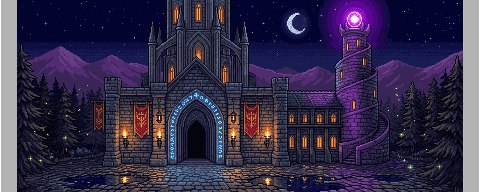
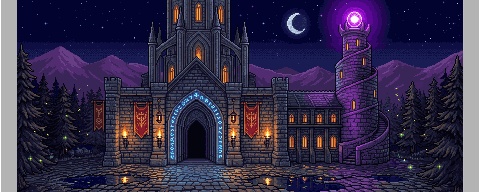
fix: Restore sky canvas + particles, single guild hall image (night-v2)
- Sky gradient, stars, moon, fog, seasonal particles all restored
- Removed broken mountain + day/night guild hall layers
- Single guild hall image (night-v2) anchored at bottom
- Added image copying to deploy.sh (backgrounds + icons)

diff --git a/components/GuildHallBackground.tsx b/components/GuildHallBackground.tsx
@@ -1,36 +1,318 @@
 "use client";
 
+import { useEffect, useRef } from "react";
+
+type TOD = "dawn" | "day" | "sunset" | "night";
+type Season = "spring" | "summer" | "autumn" | "winter";
+
+function getTOD(): TOD {
+  const h = new Date().getHours();
+  if (h >= 6 && h < 9)  return "dawn";
+  if (h >= 9 && h < 17) return "day";
+  if (h >= 17 && h < 20) return "sunset";
+  return "night";
+}
+
+function getSeason(): Season {
+  const m = new Date().getMonth();
+  if (m >= 2 && m <= 4) return "spring";
+  if (m >= 5 && m <= 7) return "summer";
+  if (m >= 8 && m <= 10) return "autumn";
+  return "winter";
+}
+
+// Sky gradient [top, upper-mid, lower-mid, horizon] — warm fantasy tones
+const SKY: Record<TOD, [string, string, string, string]> = {
+  dawn:   ["#07040e", "#2a0e28", "#6e2b18", "#d4582a"],
+  day:    ["#0a0810", "#18102a", "#2a1a45", "#3d2860"],   // deep purple-indigo, no blue
+  sunset: ["#07040e", "#1e0820", "#5c180a", "#c2400a"],
+  night:  ["#02010a", "#0d0b1a", "#120d22", "#1c1438"],   // dark purple-black
+};
+
+// ─── Particles ────────────────────────────────────────────────────────────────
+interface Particle {
+  x: number; y: number;
+  vx: number; vy: number;
+  size: number; opacity: number; maxOpacity: number;
+  rotation: number; rotSpeed: number;
+  swayAmp: number; swayFreq: number; swayPhase: number;
+  colorBase: string;
+  pulsePhase: number;
+}
+
+const SEASON_COLORS: Record<Season, string[]> = {
+  spring: ["rgba(255,185,205,", "rgba(255,210,225,", "rgba(245,155,185,"],
+  summer: ["rgba(255,255,100,", "rgba(200,255,110,", "rgba(150,240,70,"],
+  autumn: ["rgba(215,95,25,",   "rgba(185,60,15,",   "rgba(245,145,20,", "rgba(165,50,8,"],
+  winter: ["rgba(225,240,255,", "rgba(205,225,255,", "rgba(245,250,255,"],
+};
+
+function mkParticle(w: number, h: number, season: Season, scatter = false): Particle {
+  const colors = SEASON_COLORS[season];
+  const colorBase = colors[Math.floor(Math.random() * colors.length)];
+  const isSummer = season === "summer";
+  return {
+    x: Math.random() * w,
+    y: scatter ? Math.random() * h : -10 - Math.random() * 80,
+    vx: (Math.random() - 0.5) * (isSummer ? 0.25 : 0.65),
+    vy: isSummer ? Math.random() * 0.35 + 0.1 : Math.random() * 0.75 + 0.22,
+    size: isSummer ? Math.random() * 2 + 1.5 : Math.random() * 4 + 1.8,
+    opacity: scatter ? Math.random() * 0.3 : 0,
+    maxOpacity: Math.random() * 0.42 + 0.22,
+    rotation: Math.random() * Math.PI * 2,
+    rotSpeed: (Math.random() - 0.5) * 0.04,
+    swayAmp: Math.random() * 1.4 + 0.4,
+    swayFreq: Math.random() * 0.014 + 0.004,
+    swayPhase: Math.random() * Math.PI * 2,
+    pulsePhase: Math.random() * Math.PI * 2,
+    colorBase,
+  };
+}
+
+function drawParticle(ctx: CanvasRenderingContext2D, p: Particle, season: Season, t: number) {
+  if (p.opacity <= 0.01) return;
+  ctx.save();
+  ctx.translate(p.x, p.y);
+  ctx.rotate(p.rotation);
+  ctx.globalAlpha = p.opacity;
+
+  if (season === "spring") {
+    ctx.fillStyle = p.colorBase + "1)";
+    ctx.beginPath();
+    ctx.ellipse(0, 0, p.size * 0.75, p.size * 1.4, 0, 0, Math.PI * 2);
+    ctx.fill();
+    ctx.fillStyle = p.colorBase + "0.55)";
+    ctx.beginPath();
+    ctx.ellipse(0, p.size * 0.85, p.size * 0.28, p.size * 0.32, 0, 0, Math.PI * 2);
+    ctx.fill();
+  } else if (season === "summer") {
+    const pulse = Math.sin(t * 0.003 + p.pulsePhase) * 0.45 + 0.55;
+    ctx.globalAlpha = p.opacity * pulse;
+    const glow = ctx.createRadialGradient(0, 0, 0, 0, 0, p.size * 3.5);
+    glow.addColorStop(0,   p.colorBase + "0.85)");
+    glow.addColorStop(0.3, p.colorBase + "0.35)");
+    glow.addColorStop(1,   "rgba(0,0,0,0)");
+    ctx.fillStyle = glow;
+    ctx.beginPath();
+    ctx.arc(0, 0, p.size * 3.5, 0, Math.PI * 2);
+    ctx.fill();
+    ctx.fillStyle = p.colorBase + "1)";
+    ctx.beginPath();
+    ctx.arc(0, 0, p.size * 0.45, 0, Math.PI * 2);
+    ctx.fill();
+  } else if (season === "autumn") {
+    ctx.fillStyle = p.colorBase + "1)";
+    ctx.beginPath();
+    ctx.ellipse(0, 0, p.size * 0.65, p.size * 1.55, 0, 0, Math.PI * 2);
+    ctx.fill();
+    ctx.strokeStyle = p.colorBase + "0.45)";
+    ctx.lineWidth = 0.55;
+    ctx.beginPath();
+    ctx.moveTo(0, -p.size * 1.55);
+    ctx.lineTo(0, p.size * 1.55);
+    ctx.stroke();
+  } else {
+    // Snowflake
+    ctx.strokeStyle = p.colorBase + "0.82)";
+    ctx.lineWidth = 0.65;
+    for (let i = 0; i < 6; i++) {
+      const a = (i / 6) * Math.PI * 2;
+      const ex = Math.cos(a) * p.size * 1.5;
+      const ey = Math.sin(a) * p.size * 1.5;
+      ctx.beginPath(); ctx.moveTo(0, 0); ctx.lineTo(ex, ey); ctx.stroke();
+      const mx = ex * 0.5, my = ey * 0.5;
+      const px = Math.cos(a + Math.PI / 2) * p.size * 0.4;
+      const py = Math.sin(a + Math.PI / 2) * p.size * 0.4;
+      ctx.beginPath(); ctx.moveTo(mx - px, my - py); ctx.lineTo(mx + px, my + py); ctx.stroke();
+    }
+    ctx.fillStyle = p.colorBase + "0.9)";
+    ctx.beginPath(); ctx.arc(0, 0, p.size * 0.28, 0, Math.PI * 2); ctx.fill();
+  }
+  ctx.restore();
+}
+
+// ─── Main Component ───────────────────────────────────────────────────────────
 export default function GuildHallBackground() {
+  const canvasRef  = useRef<HTMLCanvasElement>(null);
+
+  // Canvas: sky gradient + stars + moon/sun + fog + seasonal particles
+  useEffect(() => {
+    const canvas = canvasRef.current;
+    if (!canvas) return;
+    const ctx = canvas.getContext("2d");
+    if (!ctx) return;
+
+    const tod    = getTOD();
+    const season = getSeason();
+    const mobile = () => canvas.width < 768;
+
+    const resize = () => {
+      canvas.width  = window.innerWidth;
+      canvas.height = window.innerHeight;
+    };
+    resize();
+    window.addEventListener("resize", resize);
+
+    // Deterministic stars seeded by index
+    const STAR_COUNT = 115;
+    const stars = Array.from({ length: STAR_COUNT }, (_, i) => ({
+      x:  ((i * 7919 + 1234) % 9973) / 9973,
+      y:  ((i * 6271 + 4321) % 8191) / 8191 * 0.64,
+      s:  ((i * 3571) % 100) / 100 * 1.15 + 0.22,
+      to: ((i * 2341) % 628) / 100,
+      ts: 0.0006 + ((i * 1231) % 100) / 100 * 0.0012,
+    }));
+
+    // Seasonal particles
+    const showParticles = season !== "summer" || tod === "night" || tod === "dawn" || tod === "sunset";
+    const maxP = mobile() ? 12 : 26;
+    const particles: Particle[] = showParticles
+      ? Array.from({ length: maxP }, (_, i) => mkParticle(canvas.width, canvas.height, season, i < maxP * 0.6))
+      : [];
+
+    let animId: number;
+    let t = 0;
+
+    const frame = () => {
+      t++;
+      const w = canvas.width;
+      const h = canvas.height;
+
+      // ── Sky gradient ─────────────────────────────────────────────────────
+      const [c0, c1, c2, c3] = SKY[tod];
+      const skyGrad = ctx.createLinearGradient(0, 0, 0, h);
+      skyGrad.addColorStop(0,    c0);
+      skyGrad.addColorStop(0.33, c1);
+      skyGrad.addColorStop(0.70, c2);
+      skyGrad.addColorStop(1,    c3);
+      ctx.fillStyle = skyGrad;
+      ctx.fillRect(0, 0, w, h);
+
+      // ── Stars ────────────────────────────────────────────────────────────
+      if (tod !== "day") {
+        const sa = tod === "night" ? 0.62 : tod === "dawn" ? 0.32 : 0.14;
+        const starLimit = mobile() ? 55 : STAR_COUNT;
+        ctx.fillStyle = "#d6c8ff";
+        for (let i = 0; i < starLimit; i++) {
+          const s = stars[i];
+          const tw = Math.sin(t * s.ts + s.to) * 0.26 + 0.74;
+          ctx.globalAlpha = sa * tw;
+          ctx.beginPath();
+          ctx.arc(s.x * w, s.y * h, s.s, 0, Math.PI * 2);
+          ctx.fill();
+        }
+        ctx.globalAlpha = 1;
+      }
+
+      // ── Moon / sun ───────────────────────────────────────────────────────
+      if (tod === "night" || tod === "dawn") {
+        const mx = w * 0.74, my = h * 0.17, mr = mobile() ? 19 : 29;
+        const ma = tod === "night" ? 0.86 : 0.40;
+        const mg = ctx.createRadialGradient(mx, my, mr * 0.4, mx, my, mr * 3.8);
+        mg.addColorStop(0, `rgba(215,200,255,${(ma * 0.12).toFixed(3)})`);
+        mg.addColorStop(1, "rgba(0,0,0,0)");
+        ctx.fillStyle = mg; ctx.beginPath(); ctx.arc(mx, my, mr * 3.8, 0, Math.PI * 2); ctx.fill();
+        ctx.fillStyle = `rgba(230,225,255,${ma})`;
+        ctx.beginPath(); ctx.arc(mx, my, mr, 0, Math.PI * 2); ctx.fill();
+        ctx.fillStyle = tod === "night" ? "rgba(8,4,18,0.92)" : "rgba(20,10,35,0.52)";
+        ctx.beginPath(); ctx.arc(mx + mr * 0.27, my - mr * 0.07, mr * 0.82, 0, Math.PI * 2); ctx.fill();
+      } else if (tod === "day") {
+        const sg = ctx.createRadialGradient(w * 0.62, h * 0.17, 0, w * 0.62, h * 0.17, h * 0.5);
+        sg.addColorStop(0, "rgba(255,190,80,0.10)"); sg.addColorStop(1, "rgba(0,0,0,0)");
+        ctx.fillStyle = sg; ctx.fillRect(0, 0, w, h);
+      } else {
+        const sg = ctx.createRadialGradient(w * 0.28, h * 0.82, 0, w * 0.28, h * 0.82, h * 0.55);
+        sg.addColorStop(0, "rgba(255,88,18,0.30)"); sg.addColorStop(1, "rgba(0,0,0,0)");
+        ctx.fillStyle = sg; ctx.fillRect(0, 0, w, h);
+      }
+
+      if (tod === "dawn") {
+        const dg = ctx.createRadialGradient(w * 0.3, h * 0.85, 0, w * 0.3, h * 0.85, h * 0.52);
+        dg.addColorStop(0, "rgba(255,130,42,0.26)"); dg.addColorStop(1, "rgba(0,0,0,0)");
+        ctx.fillStyle = dg; ctx.fillRect(0, 0, w, h);
+      }
+
+      // ── Fog layer ────────────────────────────────────────────────────────
+      if (tod !== "day") {
+        const fy = h * 0.63 + Math.sin(t * 0.00038) * 7;
+        const fc: Record<TOD, string> = {
+          dawn:   "rgba(255,136,62,0.055)",
+          day:    "rgba(0,0,0,0)",
+          sunset: "rgba(195,65,20,0.055)",
+          night:  "rgba(38,22,72,0.065)",
+        };
+        const fg = ctx.createLinearGradient(0, fy, 0, fy + h * 0.20);
+        fg.addColorStop(0, "rgba(0,0,0,0)");
+        fg.addColorStop(0.5, fc[tod]);
+        fg.addColorStop(1, "rgba(0,0,0,0)");
+        ctx.fillStyle = fg; ctx.fillRect(0, fy, w, h * 0.20);
+      }
+
+      // ── Seasonal particles ───────────────────────────────────────────────
+      for (let i = 0; i < particles.length; i++) {
+        const p = particles[i];
+        p.x += p.vx + Math.sin(t * p.swayFreq + p.swayPhase) * p.swayAmp * 0.055;
+        p.y += p.vy;
+        p.rotation += p.rotSpeed;
+        if (p.y < 50) p.opacity = Math.min(p.maxOpacity, p.opacity + 0.012);
+        else if (p.y > h - 70) p.opacity = Math.max(0, p.opacity - 0.018);
+        else p.opacity = Math.min(p.maxOpacity, p.opacity + 0.008);
+        if (p.y > h + 15) particles[i] = mkParticle(w, h, season);
+        drawParticle(ctx, p, season, t);
+      }
+
+      animId = requestAnimationFrame(frame);
+    };
+
+    frame();
+
+    return () => {
+      cancelAnimationFrame(animId);
+      window.removeEventListener("resize", resize);
+    };
+  }, []);
+
   return (
-    <div
-      style={{
-        position: "fixed",
-        top: 0,
-        left: 0,
-        width: "100%",
-        height: "100%",
-        pointerEvents: "none",
-        zIndex: 0,
-        background: "linear-gradient(to bottom, #02010a 0%, #0d0b1a 33%, #120d22 70%, #1c1438 100%)",
-      }}
-    >
-      {/* eslint-disable-next-line @next/next/no-img-element */}
-      <img
-        src="/images/guild-hall-bg.png"
-        alt=""
+    <>
+      {/* Layer 1 — Sky canvas (stars, moon, particles) */}
+      <canvas
+        ref={canvasRef}
         style={{
-          position: "absolute",
-          bottom: 0,
-          left: "50%",
-          transform: "translateX(-50%)",
-          width: "100%",
-          maxWidth: "1200px",
-          height: "auto",
-          imageRendering: "pixelated",
-          opacity: 0.35,
-          userSelect: "none",
+          position: "fixed",
+          top: 0, left: 0,
+          width: "100%", height: "100%",
+          pointerEvents: "none",
+          zIndex: 0,
         }}
       />
-    </div>
+
+      {/* Layer 2 — Guild Hall (single image, bottom-anchored) */}
+      <div
+        style={{
+          position: "fixed",
+          bottom: 0, left: 0,
+          width: "100%",
+          pointerEvents: "none",
+          zIndex: 0,
+          display: "flex",
+          justifyContent: "center",
+        }}
+      >
+        {/* eslint-disable-next-line @next/next/no-img-element */}
+        <img
+          src="/images/guild-hall-bg.png"
+          alt=""
+          style={{
+            display: "block",
+            width: "100%",
+            maxWidth: "1200px",
+            height: "auto",
+            imageRendering: "pixelated",
+            opacity: 0.3,
+            userSelect: "none",
+          }}
+        />
+      </div>
+    </>
   );
 }
